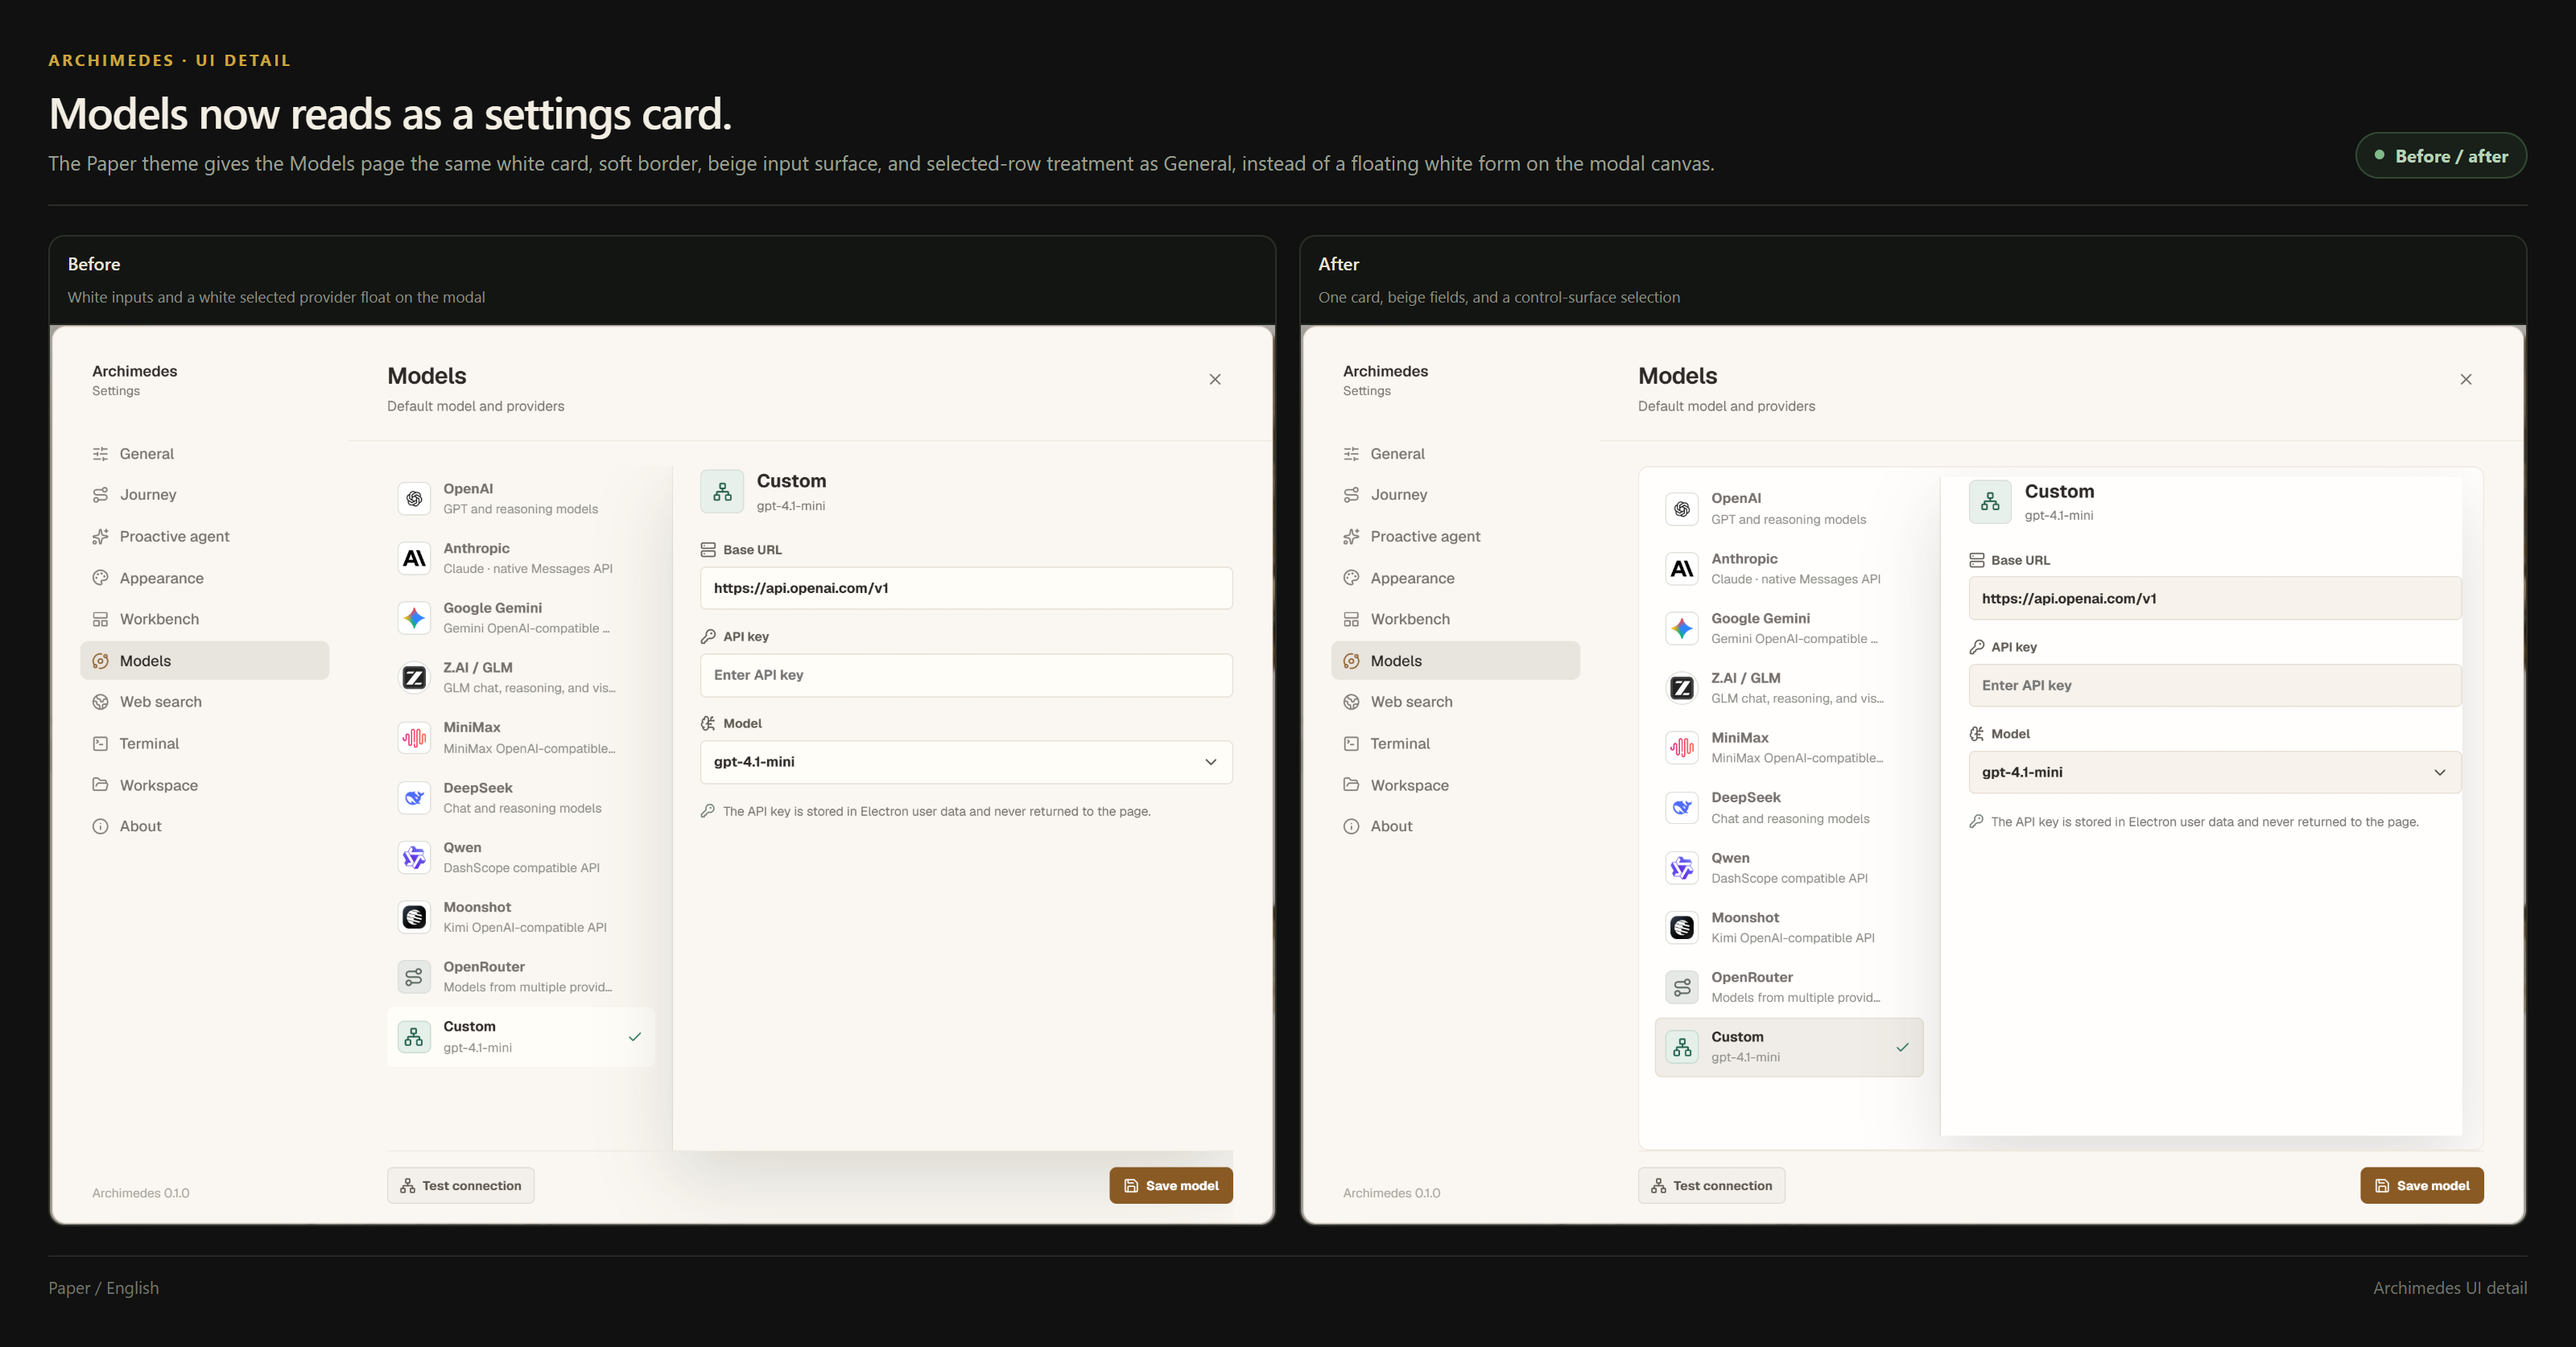
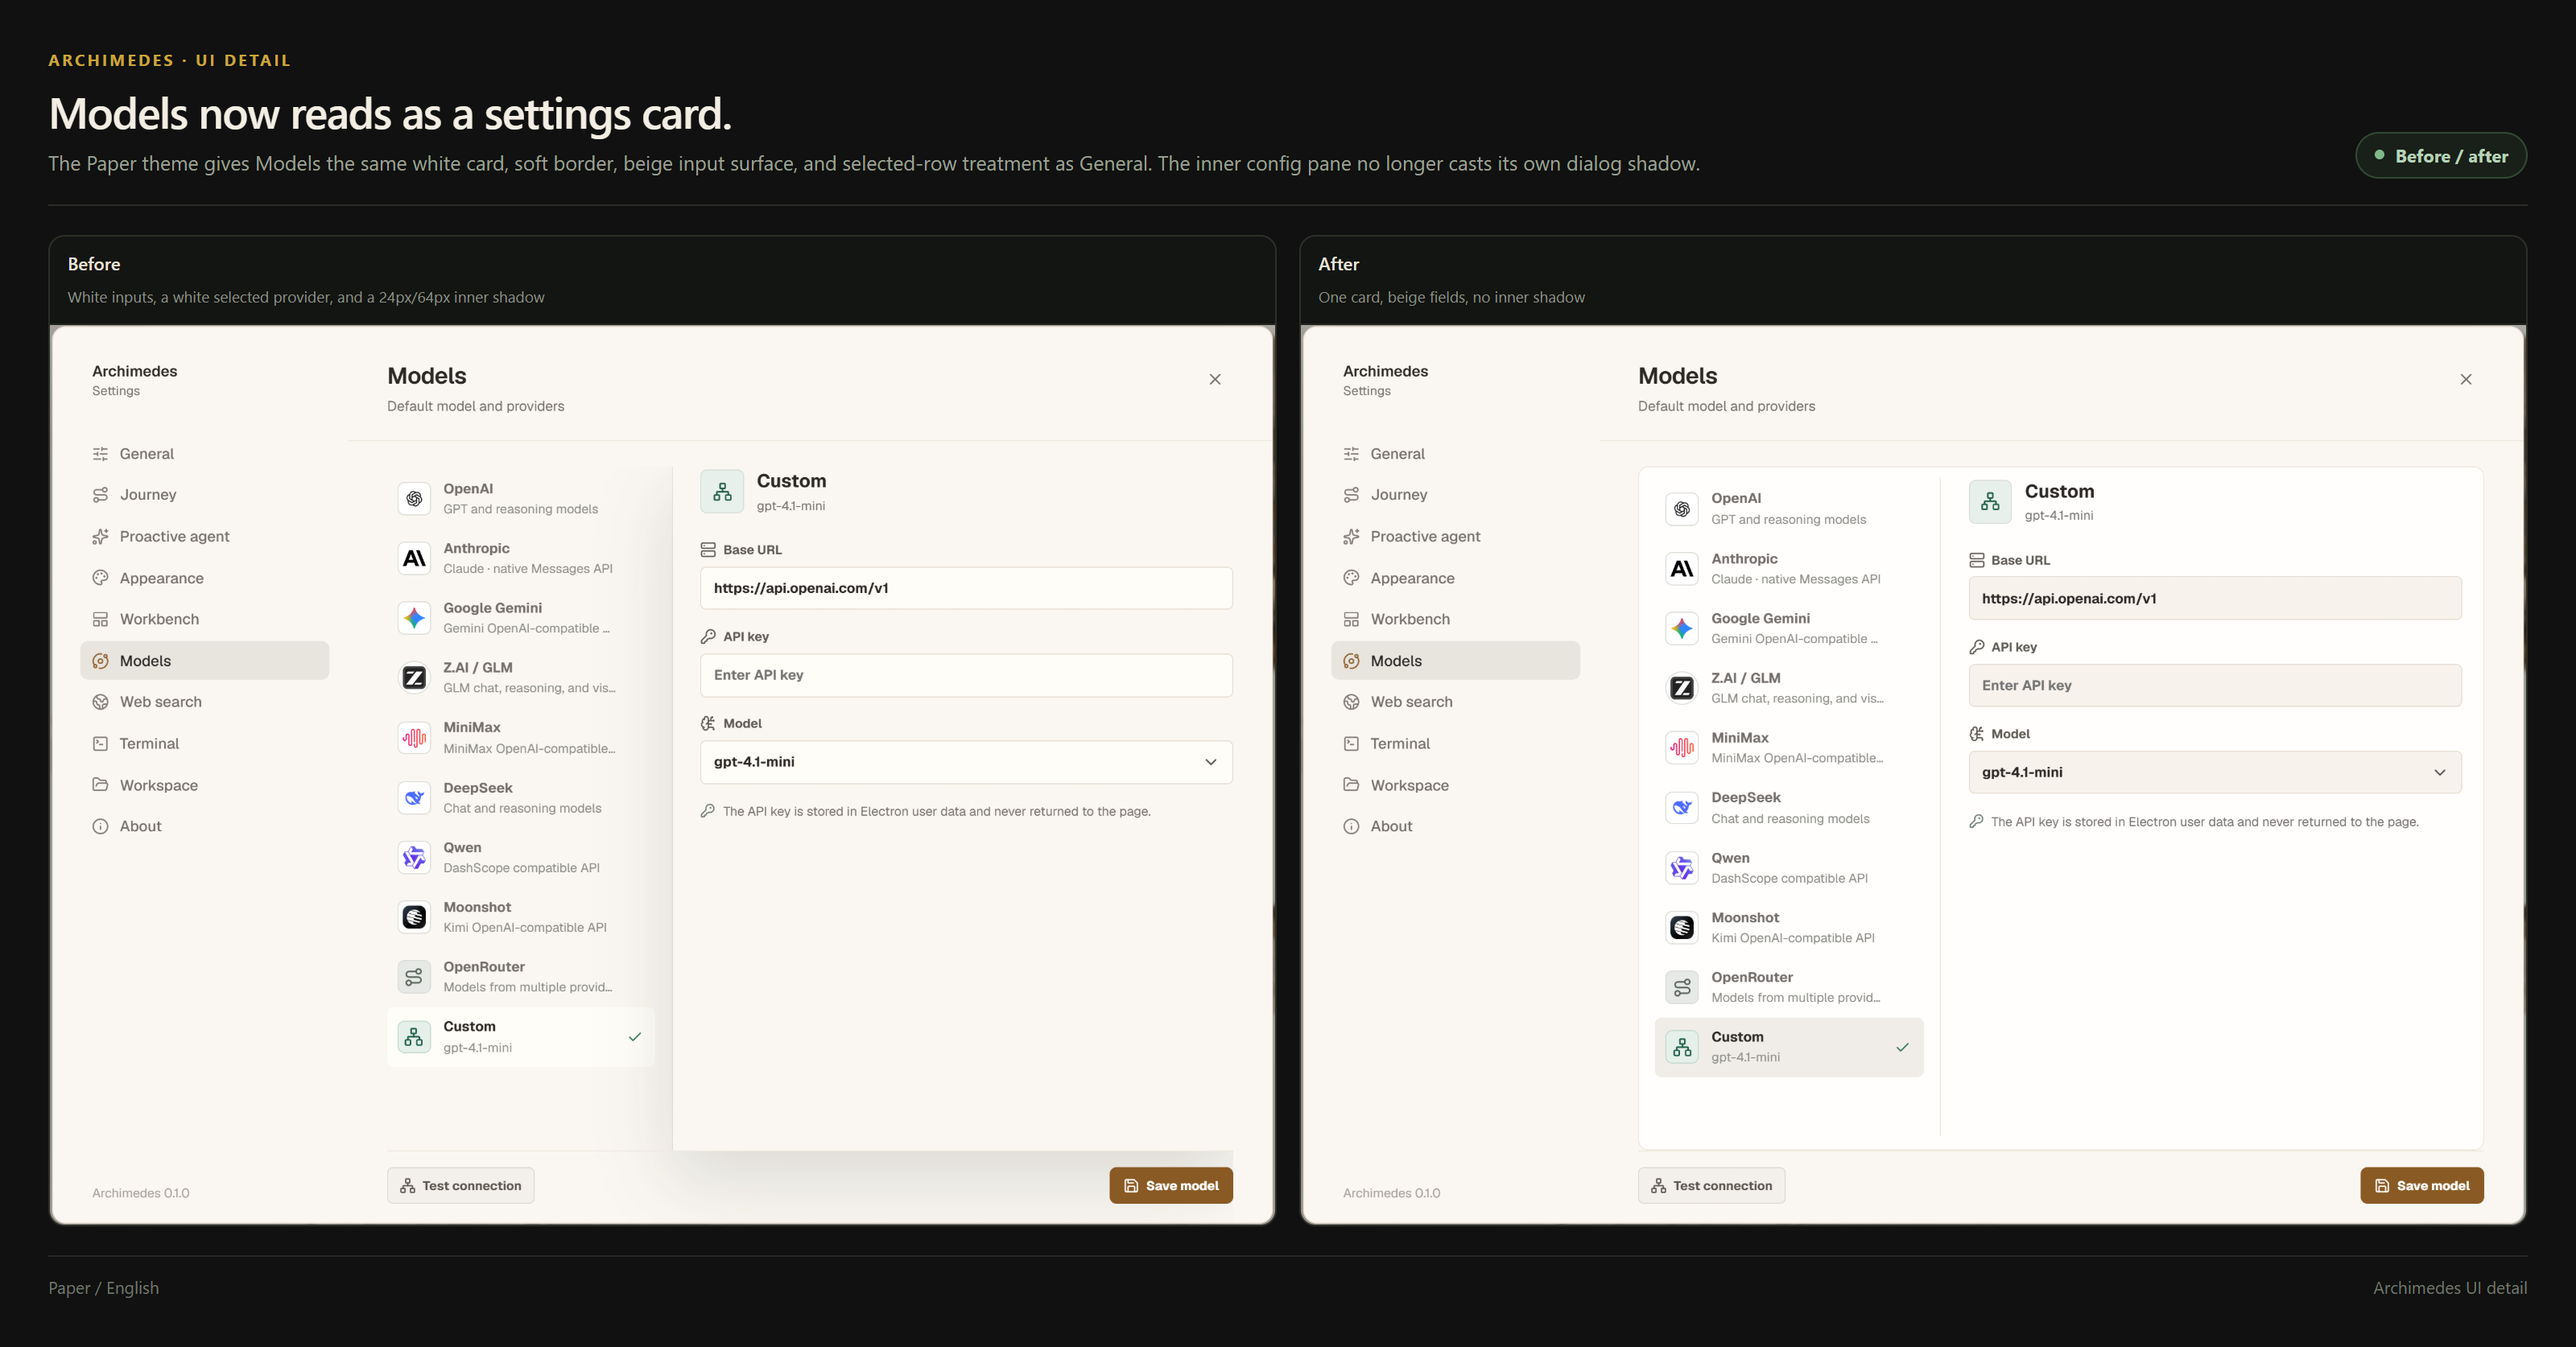
fix(settings): remove inner shadow from embedded Models pane

diff --git a/src/styles.css b/src/styles.css
@@ -4152,8 +4152,11 @@ html[data-titlebar="overlay"] .workbench-tabs::-webkit-scrollbar { display: none
 .theme-paper .settings-embedded .provider-list { border-right-color: var(--border-soft); }
 .theme-paper .settings-embedded .provider-option.active {
   background: var(--surface-control);
-  box-shadow: inset 0 0 0 1px var(--border-default);
+  box-shadow: none;
 }
+/* The embedded card provides the surface; the config pane must not cast its
+   own dialog shadow inside it. */
+.theme-paper .settings-embedded .provider-config { box-shadow: none; }
 .theme-paper .settings-embedded .provider-config input {
   background: var(--surface-raised);
   border-color: var(--border-default);
